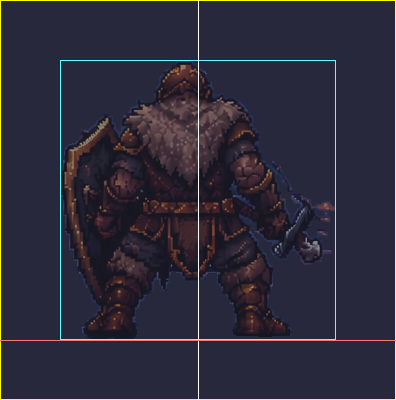
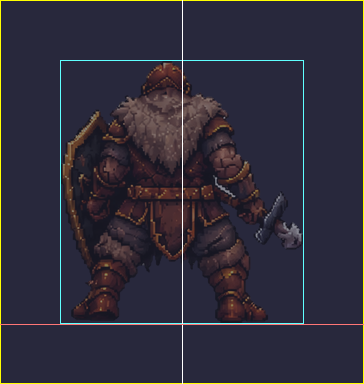
v39: novo cenário, personagens em camadas, Maga animada com efeitos da folha de referência
Claude-Session: https://claude.ai/code/session_01YFC38PcyDKAfPNhJ7r1cKG

Changed region(s): [[0.0, 0.125, 1.0, 0.875], [0.3324, 0.75, 0.3626, 0.7812]]

diff --git a/mage.js b/mage.js
@@ -1,0 +1,181 @@
+/* Banco de Dados I — RPG · rig da Maga (v39)
+   Usa a arte do spr_mage.webp deformada por linhas (respiração, balanço do manto, ponta do chapéu)
+   + efeitos azuis extraídos da folha de referência (fx/*.png), desenhados em camadas globais.
+   Só a Maga usa isso; os outros continuam como imagem/sheets. */
+(() => {
+'use strict';
+const FX_NAMES = ['rune','ring','proj','crystal','column','burst','flame','star','wisp','star2'];
+const FXK = {rune:2.4, ring:2.4, proj:2.4, crystal:2, column:2.2, burst:2.4, flame:2, star:1.5, wisp:1.8, star2:2};
+const T = {x:517, y:330};                       // ponto de impacto no chefe (coordenadas do design 1024x1536)
+const ORB = {x:193, y:47};                       // orbe do cajado dentro do sprite 209x284
+let _c = 0, _p = performance.now();
+const clk = () => { const n = performance.now(); _c += (n - _p) * (window.__ts == null ? 1 : window.__ts); _p = n; return _c; };
+const ease = u => u < .5 ? 2*u*u : 1 - Math.pow(-2*u + 2, 2) / 2, clamp = (v, a=0, b=1) => Math.max(a, Math.min(b, v));
+const lerp = (a, b, u) => a + (b - a) * u, rnd = (a, b) => a + Math.random() * (b - a);
+
+function kf(t, keys){                            // keyframes [[t,{k:v}]...] com suavização
+  if (t <= keys[0][0]) return keys[0][1];
+  for (let i = 1; i < keys.length; i++) if (t <= keys[i][0]) {
+    const [t0, a] = keys[i-1], [t1, b] = keys[i], u = ease((t - t0) / (t1 - t0)), o = {};
+    for (const k in {...a, ...b}) o[k] = lerp(a[k] || 0, b[k] || 0, u); return o;
+  }
+  return keys[keys.length-1][1];
+}
+
+// poses (deltas somados ao idle). lean>0 = inclina pra frente(direita), rise>0 = sobe, squash>0 = agacha
+const ANIMS = {
+  melee:{dur:900, keys:[[0,{}],[.18,{lean:-9,squash:.05,rise:-4}],[.34,{lean:14,rise:22,sx:.04}],[.5,{lean:5,rise:8}],[1,{}]],
+    ev:[[.3, m => { m.proj(.0, 330, 80, .55); m.pop('star', 0, 0, .3, 1.1, 260, 'T'); }], [.42, m => m.pop('star2', 0, 0, .4, 1.4, 360, 'T')]]},
+  cast:{dur:1500, keys:[[0,{}],[.25,{lean:-6,rise:6,glow:.6}],[.5,{lean:-12,rise:16,glow:1.2,tip:5}],[.62,{lean:10,rise:4,glow:1.6}],[1,{}]],
+    ev:[[.15, m => m.pop('rune', 0, 0, .25, 1.0, 900, 'feet', 'back', 1.4)], [.2, m => m.sparks(10)], [.62, m => m.proj(0, 520, 110, 1)], [.82, m => { m.pop('burst', 0, 0, .25, .75, 520, 'T'); m.pop('star', 0, 0, .3, 1.6, 360, 'T'); }]]},
+  holy:{dur:1500, keys:[[0,{}],[.3,{rise:12,glow:1,lean:-4}],[.6,{rise:16,glow:1.5}],[1,{}]],
+    ev:[[.1, m => m.pop('rune', 0, 0, .25, 1.2, 1100, 'feet', 'back', 1.6)], [.3, m => m.sparks(14)], [.45, m => m.pop('column', 0, 0, .6, .9, 900, 'self')]]},
+  heavy:{dur:2100, keys:[[0,{}],[.2,{lean:-8,rise:10,squash:.04,glow:.8}],[.45,{lean:-14,rise:26,glow:1.6,tip:8}],[.58,{lean:16,rise:6,glow:2}],[.7,{lean:8,rise:12}],[1,{}]],
+    ev:[[.1, m => m.pop('rune', 0, 0, .3, 1.3, 1500, 'feet', 'back', 1.9)], [.25, m => m.sparks(18)], [.57, m => m.proj(0, 480, 130, 1.5)],
+        [.77, m => { m.pop('column', 0, 0, .6, 1.0, 800, 'T'); m.pop('burst', 0, 0, .3, 1.1, 650, 'T'); m.pop('star2', 0, 0, .3, 2.2, 450, 'T'); }]]},
+  ult:{dur:3400, keys:[[0,{}],[.12,{lean:-6,squash:.06}],[.35,{rise:46,lean:-6,glow:2,tip:10,sx:.02}],[.6,{rise:56,lean:-2,glow:2.6,tip:12}],[.72,{rise:40,lean:18,glow:3}],[.85,{rise:20,lean:8}],[1,{}]],
+    ev:[[.05, m => m.pop('rune', 0, 0, .2, 1.9, 2700, 'feet', 'back', 2.8)], [.1, m => m.pop('ring', 0, 0, .2, 1.3, 2400, 'feet', 'back', 1.8, 1)],
+        [.2, m => m.sparks(26)], [.4, m => m.sparks(26)],
+        [.5, m => m.pop('burst', -120, 0, .3, .8, 1300, 'self')], [.54, m => m.pop('burst', 120, 0, .3, .8, 1300, 'self')],
+        [.7, m => m.proj(0, 600, 220, 2.4)],
+        [.84, m => { m.pop('column', -90, 0, .5, 1.1, 1200, 'T'); m.pop('column', 90, 0, .5, 1.1, 1200, 'T'); m.pop('column', 0, 0, .6, 1.4, 1200, 'T'); }],
+        [.86, m => { m.pop('burst', 0, 0, .4, 2.4, 1000, 'T'); m.pop('rune', 0, 0, .4, 2.2, 1100, 'T', 'front', 1.4, 1); m.flash(); }], [.9, m => m.pop('star2', 0, 0, .4, 3.4, 700, 'T')]]},
+  guard:{dur:1700, keys:[[0,{}],[.2,{squash:.1,lean:-5}],[.8,{squash:.1,lean:-5,glow:.8}],[1,{}]],
+    ev:[[.05, m => m.pop('ring', 0, -150, .3, 1.5, 1500, 'self', 'front', 0, 1)], [.1, m => m.pop('rune', 0, -150, .3, .9, 1400, 'self', 'front', 0, -1)]]},
+  dodge:{dur:800, keys:[[0,{}],[.25,{dx:-46,lean:-12,squash:.04}],[.65,{dx:-46,lean:-10}],[1,{}]], ghost:true,
+    ev:[[.1, m => m.pop('wisp', 0, 0, .5, 1.0, 600, 'self')]]},
+  hurt:{dur:650, keys:[[0,{}],[.12,{lean:-14,rise:-8,squash:.07,tint:1,dx:-8}],[.3,{lean:-8,tint:.7,dx:8}],[.5,{lean:-4,tint:.3,dx:-3}],[1,{}]],
+    ev:[[.04, m => m.pop('star2', 0, 20, .3, 1.1, 300, 'self')]]},
+  pass:{dur:1400, keys:[[0,{}],[.4,{squash:.07,lean:-5,tip:-8}],[.7,{squash:.07,lean:-5,tip:-8}],[1,{}]], ev:[[.3, m => m.pop('wisp', 40, -90, .5, 1.1, 1000, 'self')]]},
+  victory:{dur:2300, keys:[[0,{}],[.1,{squash:.07}],[.25,{rise:48,lean:-4,glow:1.2}],[.4,{squash:.05}],[.55,{rise:60,lean:4,glow:1.6,tip:8}],[.7,{squash:.04}],[.85,{rise:14,glow:1}],[1,{}]],
+    ev:[[.2, m => { m.sparks(22); m.pop('star2', -50, -60, .5, 1.2, 700, 'self'); }], [.5, m => { m.sparks(30); m.pop('burst', 0, 0, .4, .7, 900, 'self'); m.pop('star2', 50, -90, .5, 1.4, 800, 'self'); }]]},
+};
+ANIMS.super = ANIMS.heavy; ANIMS.aoe = ANIMS.heavy;
+// idles (aleatórios, além do balanço contínuo)
+const IDLES = [
+  {dur:2600, keys:[[0,{}],[.4,{tip:14,lean:3,rise:4}],[.7,{tip:-10,lean:-2}],[1,{}]]},                                         // ponta do chapéu balança
+  {dur:2400, keys:[[0,{}],[.35,{glow:1.8,rise:6}],[1,{}]], ev:[[.15, m => { m.sparks(9); m.pop('star', 0, 0, .5, 1.5, 900, 'orb'); }]]},      // orbe brilha
+  {dur:3000, keys:[[0,{}],[.3,{dx:-7,lean:-4,squash:.02}],[.7,{dx:5,lean:3}],[1,{}]], ev:[[.2, m => m.pop('wisp', -30, -110, .5, 1.0, 1300, 'self')]]}, // troca o peso
+  {dur:2800, keys:[[0,{}],[.5,{sx:.03,rise:7,glow:1.2}],[1,{}]], ev:[[.1, m => m.pop('ring', 0, 0, .2, .9, 2200, 'feet', 'back', 0, .6)]]},   // anel arcano no chão
+];
+
+function make(host){
+  const {c, cv, P, W, Hh, world, layers, shadow} = host;       // c: ctx do canvas da Maga; world: {x,y} do sprite no design
+  const img = host.still, back = layers.back, front = layers.front, bc = back.getContext('2d'), fc = front.getContext('2d');
+  const fx = {}; FX_NAMES.forEach(n => { const i = new Image(); i.src = 'fx/' + n + '.png'; fx[n] = i; });
+  let parts = [], cur = null, flashT = 0, dead = 0, deadTarget = 0, last = 0, t0 = clk(), running = false, dirty = false, busy = null;
+
+  const state = () => cur ? cur.pose : {};
+  function deform(tm, p){                                        // monta função de deformação por linha
+    const br = Math.sin(tm / 1100) * .5 + .5, sw = Math.sin(tm / 1700 + 1), sw2 = Math.sin(tm / 930);
+    const lean = (p.lean || 0) + sw * 1.2, rise = (p.rise || 0) + br * 2.2, squash = p.squash || 0, tip = (p.tip || 0) + Math.sin(tm / 1300 + 2) * 3.2 + Math.sin(tm / 520) * 1.2;
+    const sx = 1 + (p.sx || 0) + br * .012;
+    return y => {
+      const h = y / Hh, up = 1 - h;
+      const dx = (p.dx || 0) + lean * Math.pow(up, 1.7) + sw2 * 1.6 * h * h + sw * 1.4 * h * h * h
+               + (h < .2 ? tip * Math.pow(1 - h / .2, 2) : 0);
+      const dy = -rise * (.3 + .7 * up) + squash * 48 * Math.pow(up, .8);
+      return {dx, dy, s: sx + (h > .3 && h < .8 ? br * .01 : 0) + squash * .08 * (1 - Math.abs(h - .55) * 2)};
+    };
+  }
+  function orbPos(f){ const d = f(ORB.y); return {x: ORB.x + d.dx, y: ORB.y + d.dy}; }
+
+  function spawn(o){ parts.push({t0: clk(), ...o}); }
+  const api = {
+    flash(){ flashT = clk(); },
+    sparks(n){ for (let i = 0; i < n; i++) spawn({img:'star', at:'orb', ox:rnd(-14,14), oy:rnd(-14,14), vx:rnd(-30,30), vy:rnd(-90,-30), s0:rnd(.25,.6), s1:0, d:rnd(500,1100), layer:'front', w:rnd(0,.25)}); },
+    pop(name, ox, oy, s0, s1, d, at, layer = 'front', rot0 = 0, rot1 = 0){ spawn({img:name, at, ox, oy, s0, s1, d, layer, rot0, rot1, pop:true}); },
+    proj(ox, d, arc, size){ spawn({img:'proj', at:'orb', fly:true, d, arc, s0:.35 * size, s1:.55 * size, layer:'front', trail:true}); },
+  };
+
+  function pos(p, now){                                         // coordenadas do design (1024x1536) do efeito
+    const orb = host.orbWorld;
+    let base = p.at === 'T' ? T : p.at === 'orb' ? orb : p.at === 'feet' ? {x: world.x + W / 2, y: world.y + Hh - 12} : {x: world.x + W / 2, y: world.y + Hh / 2};
+    return {x: base.x + (p.ox || 0), y: base.y + (p.oy || 0)};
+  }
+  function drawPart(ctx, p, now){
+    const u = (now - p.t0 - (p.w || 0) * 1000) / p.d; if (u < 0) return true; if (u >= 1) return false;
+    const im = fx[p.img]; if (!im.complete || !im.naturalWidth) return true;
+    let {x, y} = pos(p, now), a, s = lerp(p.s0, p.s1, ease(u)) * (FXK[p.img] || 1), rot = lerp(p.rot0 || 0, p.rot1 || 0, u);
+    if (p.fly) {
+      const o = p.o0 || (p.o0 = {...host.orbWorld}), e = u * u * (3 - 2 * u * .6), e2 = Math.pow(u, 1.5);
+      x = lerp(o.x, T.x, e2); y = lerp(o.y, T.y, e2) - Math.sin(u * Math.PI) * p.arc; a = u > .93 ? (1 - u) / .07 : 1; rot = u * 9;
+      if (p.trail && Math.random() < .8) spawn({img:'star', at:'abs', ax:x, ay:y, s0:rnd(.2,.5), s1:0, d:rnd(250,520), layer:'front'});
+    } else if (p.vx != null) {
+      x += p.vx * u * 1; y += p.vy * u; a = Math.sin(u * Math.PI);
+    } else a = p.pop ? (u < .15 ? u / .15 : 1 - Math.pow((u - .15) / .85, 1.6)) : 1 - u;
+    if (p.at === 'abs') { x = p.ax; y = p.ay; a = 1 - u; }
+    const k = host.scale, w = im.naturalWidth * s, h = im.naturalHeight * s;
+    ctx.save(); ctx.globalAlpha = clamp(a) * (p.img === 'rune' || p.img === 'ring' ? .9 : 1); ctx.translate(x * k, y * k);
+    if (p.layer === 'back' && (p.img === 'rune' || p.img === 'ring')) ctx.scale(1, .34);
+    ctx.rotate(rot); ctx.globalCompositeOperation = 'lighter'; ctx.drawImage(im, -w / 2 * k, -h / 2 * k, w * k, h * k);
+    if (p.pop && s > 1) ctx.drawImage(im, -w / 2 * k, -h / 2 * k, w * k, h * k);       // brilho extra
+    ctx.restore(); return true;
+  }
+
+  function frame(){
+    if (!running) return;
+    requestAnimationFrame(frame); const now = clk();
+    if (document.hidden || now - last < 30) return; last = now;
+    const tm = now - t0;
+    let p = {}, pe = 0;
+    if (cur) {
+      pe = (now - cur.start) / cur.a.dur;
+      if (!cur.fired) cur.fired = 0;
+      const ev = cur.a.ev || [];
+      while (cur.fired < ev.length && pe >= ev[cur.fired][0]) ev[cur.fired++][1](api);
+      p = kf(clamp(pe), cur.a.keys);
+      if (pe >= 1) { const d = cur; cur = null; d.done(); }
+    }
+    // morte: afunda
+    dead += (deadTarget - dead) * .12;
+    const f0 = deform(tm, p), f = y => { const d = f0(y); return d; };
+    host.orbWorld = (() => { const q = orbPos(f0); return {x: world.x + q.x, y: world.y + q.y}; })();
+    // ---- corpo
+    c.clearRect(0, 0, cv.width, cv.height); shadow(c); c.imageSmoothingEnabled = false;
+    const cx = W / 2, fall = dead;
+    const ghost = cur && cur.a.ghost ? clamp(Math.sin(clamp(pe) * Math.PI) * .5) : 0;
+    const body = (alpha, offx) => {
+      c.globalAlpha = alpha;
+      for (let y = 0; y < Hh; y++) {
+        const d = f0(y), sy = fall * .55, ty = Hh - (Hh - y) * (1 - sy), dw = W * d.s;
+        c.drawImage(img, 0, y, W, 1, Math.round(P + cx + (0 - cx) * d.s + d.dx + offx), Math.round(P + ty + d.dy * (1 - fall)), Math.round(dw), 2);
+      }
+      c.globalAlpha = 1;
+    };
+    if (ghost) { body(.28 * ghost * 2, 38 * ghost * 2); body(.18 * ghost * 2, 76 * ghost * 2); }
+    body(1, 0);
+    if (p.tint) { c.save(); c.globalCompositeOperation = 'source-atop'; c.fillStyle = `rgba(255,50,40,${.55 * p.tint})`; c.fillRect(0, 0, cv.width, cv.height); c.restore(); }
+    // ---- brilho do orbe (dentro do canvas)
+    const g = clamp((p.glow || 0) * .5 + .35 + Math.sin(tm / 400) * .08, 0, 1.4), op = orbPos(f0);
+    const gx = P + op.x, gy = P + op.y - (p.rise || 0) * 0, r = 20 + (p.glow || 0) * 14;
+    if (!fall || fall < .5) {
+      c.save(); c.globalCompositeOperation = 'lighter';
+      const gr = c.createRadialGradient(gx, gy, 1, gx, gy, r); gr.addColorStop(0, `rgba(120,190,255,${.55 * g})`); gr.addColorStop(.5, `rgba(40,110,255,${.22 * g})`); gr.addColorStop(1, 'rgba(0,40,255,0)');
+      c.fillStyle = gr; c.fillRect(gx - r, gy - r, 2 * r, 2 * r);
+      const st = fx.star; if (st.complete && st.naturalWidth) { const s = (.55 + (p.glow || 0) * .35) * (.8 + .2 * Math.sin(tm / 260)); c.globalAlpha = clamp(.55 + (p.glow || 0) * .3); c.drawImage(st, gx - st.naturalWidth * s / 2, gy - st.naturalHeight * s / 2, st.naturalWidth * s, st.naturalHeight * s); }
+      c.restore();
+    }
+    // ---- efeitos globais
+    if (parts.length || dirty) {
+      bc.clearRect(0, 0, back.width, back.height); fc.clearRect(0, 0, front.width, front.height); dirty = parts.length > 0;
+      parts = parts.filter(q => drawPart(q.layer === 'back' ? bc : fc, q, now));
+      if (flashT) { const u = (now - flashT) / 450; if (u < 1) { fc.save(); fc.fillStyle = `rgba(150,200,255,${.55 * (1 - u)})`; fc.fillRect(0, 0, front.width, front.height); fc.restore(); dirty = true; } else flashT = 0; }
+    }
+  }
+  window.__dbg = () => ({n: parts.length, cur: cur && cur.fired, pe: cur && (clk() - cur.start) / cur.a.dur, run: running, dead, deadTarget, busy: !!cur});
+  return {
+    start(){ if (!running) { running = true; requestAnimationFrame(frame); } },
+    play(name){ const a = ANIMS[name]; if (!a || dead > .05 && name !== 'revive') return Promise.resolve(false);
+      if (cur) cur.done(false);
+      return new Promise(res => { cur = {a, start: clk(), done: ok => res(ok !== false), fired: 0, pose: {}}; }); },
+    idle(){ if (cur) return Promise.resolve(false); const a = IDLES[Math.floor(Math.random() * IDLES.length)];
+      return new Promise(res => { cur = {a, start: clk(), done: ok => res(ok !== false), fired: 0, pose: {}}; }); },
+    has: n => !!ANIMS[n],
+    setDead(d){ deadTarget = d ? 1 : 0; if (d) { if (cur) cur.done(false); cur = null; api.pop('wisp', 0, 0, .5, 1.2, 1200, 'self'); } else { api.flash(); api.sparks(24); api.pop('burst', 0, 0, .3, .8, 900, 'self'); } },
+    reset(){ if (cur) { const d = cur; cur = null; d.done(false); } parts = []; deadTarget = 0; dead = 0; dirty = true; },
+    busy: () => !!cur, dead: () => deadTarget > 0,
+  };
+}
+window.MageRig = {make};
+})();

diff --git a/anim.js b/anim.js
@@ -3,7 +3,7 @@
    Configuração em anim/manifest.json (veja ANIMACOES.md). API usada pelo app.js: Anim.play / setDead / setAura / reset (+ say/sfx vazios). */
 (() => {
 'use strict';
-const META = {"mage":{"x":19,"y":805,"w":237,"h":276},"knight":{"x":255,"y":811,"w":236,"h":286},"tank":{"x":515,"y":810,"w":276,"h":280},"assassin":{"x":747,"y":805,"w":247,"h":307},"boss":{"x":44,"y":95,"w":946,"h":601}};
+const META = {"mage":{"x":32,"y":806,"w":209,"h":284},"knight":{"x":268,"y":838,"w":210,"h":262},"tank":{"x":531,"y":834,"w":244,"h":264},"assassin":{"x":772,"y":830,"w":196,"h":282},"boss":{"x":93,"y":111,"w":848,"h":589}};
 const WHO = Object.keys(META);
 const FALLBACK = {heavy:['melee'], holy:['cast', 'melee'], cast:['melee'], super:['heavy', 'melee'], aoe:['attack'], enrage:['attack'], laugh:['idle'], die:['death', 'hurt']};
 const $ = s => document.querySelector(s), rnd = (a, b) => a + Math.random() * (b - a), pick = a => a[Math.floor(Math.random() * a.length)];
@@ -34,6 +34,7 @@ function build(){
     const still = new Image(); still.src = `spr_${w}.webp`;
     H[w] = {cv, c:cv.getContext('2d'), still, sheets:{}, cur:null, dead:false, idleT:null, token:0, hold:null};
     drawStill(w); still.onload = () => { if (!H[w].cur) drawStill(w); };
+    if (w === 'mage' && window.MageRig) buildMage(H[w], m, P);
   });
   fetch('anim/manifest.json', {cache:'no-cache'}).then(r => r.ok ? r.json() : null).catch(() => null).then(async cfg => {
     if (cfg) CFG = cfg;
@@ -41,9 +42,20 @@ function build(){
     for (const w of WHO) { H[w].sheets = await loadSheets(w); drawStill(w); scheduleIdle(w, rnd(800, 2500)); }
   });
 }
+function buildMage(h, m, P){
+  const mk = (cls) => { const k = document.createElement('canvas'); k.className = 'fxl ' + cls; k.width = 1024; k.height = 1536; return k; };
+  const back = mk('back'), front = mk('front'); $('#game').append(back, front);
+  h.rig = window.MageRig.make({c:h.c, cv:h.cv, P, W:m.w, Hh:m.h, world:{x:m.x, y:m.y}, layers:{back, front}, still:h.still, scale:1, shadow:c => shadow(c, 'mage'), orbWorld:{x:m.x + 190, y:m.y + 45}});
+  h.rig.start();
+}
 function drawStill(w){
-  const h = H[w]; if (!h || !h.still.complete || !h.still.naturalWidth) return; const P = pad();
-  h.c.clearRect(0, 0, h.cv.width, h.cv.height); if (w !== 'boss') h.c.drawImage(h.still, P, P);   // o boss já está no cenário
+  const h = H[w]; if (h && h.rig) return; if (!h || !h.still.complete || !h.still.naturalWidth) return; const P = pad();
+  h.c.clearRect(0, 0, h.cv.width, h.cv.height); shadow(h.c, w); h.c.drawImage(h.still, P, P);
+}
+function shadow(c, w){
+  const m = META[w], P = pad(), g = c.createRadialGradient(P + m.w / 2, P + m.h - 4, 2, P + m.w / 2, P + m.h - 4, m.w * .5);
+  g.addColorStop(0, 'rgba(0,0,10,.55)'); g.addColorStop(1, 'rgba(0,0,10,0)');
+  c.save(); c.translate(0, P + m.h - 4); c.scale(1, w === 'boss' ? .12 : .16); c.translate(0, -(P + m.h - 4)); c.fillStyle = g; c.fillRect(P - 20, P + m.h - 4 - m.w * .5, m.w + 40, m.w); c.restore();
 }
 function drawFrame(w, s, f){
   const h = H[w], cw = cellW(w), ch = cellH(w), cols = s.cols || s.frames, col = f % cols, row = Math.floor(f / cols);
@@ -71,6 +83,7 @@ function playSheet(w, s, {loop = false, hold = false} = {}){
 async function play(w, name, opts = {}){
   const h = H[w]; if (!h) return false;
   if (h.dead && name !== 'revive') return false;
+  if (h.rig) { const n = h.rig.has(name) ? name : h.rig.has('melee') && name !== 'idle' ? 'melee' : null; if (!n) return false; clearTimeout(h.idleT); h.cur = n; await h.rig.play(n); h.cur = null; scheduleIdle(w, rnd(1200, 3200)); return true; }
   const r = resolve(w, name); if (!r) return false;
   clearTimeout(h.idleT); h.cur = name;
   await playSheet(w, r.s);
@@ -79,20 +92,21 @@ async function play(w, name, opts = {}){
 function scheduleIdle(w, delay){
   const h = H[w]; if (!h) return; clearTimeout(h.idleT);
   h.idleT = setTimeout(async () => {
+    if (h.rig && !h.cur && !h.dead && !document.hidden) { h.cur = 'idle'; await h.rig.idle(); h.cur = null; return scheduleIdle(w, rnd(1500, 4200)); }
     if (h.cur || h.dead || document.hidden || !h.sheets.idle) return scheduleIdle(w, rnd(1500, 3500));
     h.cur = 'idle'; await playSheet(w, pick(h.sheets.idle)); h.cur = null; scheduleIdle(w, rnd(1500, 4000));
   }, delay);
 }
 function setDead(w, dead){
-  const h = H[w]; if (!h || h.dead === dead) return; h.dead = dead; h.cv.classList.toggle('dead', dead);
+  const h = H[w]; if (!h || h.dead === dead) return; h.dead = dead; if (h.rig) { h.cv.classList.toggle('dead', dead); h.rig.setDead(dead); h.token++; h.cur = null; if (!dead) scheduleIdle(w, 1500); return; } h.cv.classList.toggle('dead', dead);
   if (dead) { const r = resolve(w, 'death'); if (r) playSheet(w, r.s, {hold:true}); }
   else { h.token++; h.cur = null; const r = resolve(w, 'revive'); if (r) playSheet(w, r.s).then(() => scheduleIdle(w, 1500)); else { drawStill(w); scheduleIdle(w, 1500); } }
 }
 function setAura(w, kind){
   const h = H[w]; if (!h) return; ['red', 'blue', 'orange', 'gold'].forEach(c => h.cv.classList.toggle('aura-' + c, c === kind));
 }
-function reset(){ WHO.forEach(w => { const h = H[w]; if (!h) return; h.token++; h.cur = null; h.dead = false; h.cv.classList.remove('dead'); setAura(w, null); drawStill(w); scheduleIdle(w, 1000); }); }
+function reset(){ WHO.forEach(w => { const h = H[w]; if (!h) return; h.token++; h.cur = null; h.dead = false; h.cv.classList.remove('dead'); if (h.rig) h.rig.reset(); setAura(w, null); drawStill(w); scheduleIdle(w, 1000); }); }
 const none = () => {};
-window.Anim = {META, play, setDead, setAura, reset, build, say:none, sayRandom:none, sfx:none, useSheet:() => {}, has:(w, n) => !!(H[w] && resolve(w, n))};
+window.Anim = {META, play, setDead, setAura, reset, build, say:none, sayRandom:none, sfx:none, useSheet:() => {}, has:(w, n) => !!(H[w] && ((H[w].rig && H[w].rig.has(n)) || resolve(w, n)))};
 if (document.readyState === 'loading') document.addEventListener('DOMContentLoaded', () => setTimeout(build, 0)); else setTimeout(build, 0);
 })();

diff --git a/sw.js b/sw.js
@@ -1,5 +1,5 @@
-const CACHE='bd1-rpg-v38';
-const ASSETS=['./','./index.html','./game.html','./lobby.js','./lobby.css','./select_plate.webp','./char_mage.webp','./char_knight.webp','./char_tank.webp','./char_assassin.webp','./panel_mage.webp','./panel_knight.webp','./panel_tank.webp','./panel_assassin.webp','./style.css','./app.js','./anim.js','./anim/manifest.json','./spr_mage.webp','./spr_knight.webp','./spr_tank.webp','./spr_assassin.webp','./game_clean.png','./question_panel.png','./icon_attack.png','./icon_coin.png','./manifest.webmanifest','./potion_hp.png','./potion_mana.png'];
+const CACHE='bd1-rpg-v39';
+const ASSETS=['./','./index.html','./game.html','./lobby.js','./lobby.css','./select_plate.webp','./char_mage.webp','./char_knight.webp','./char_tank.webp','./char_assassin.webp','./panel_mage.webp','./panel_knight.webp','./panel_tank.webp','./panel_assassin.webp','./style.css','./app.js','./anim.js','./mage.js','./anim/manifest.json','./spr_mage.webp','./spr_knight.webp','./spr_tank.webp','./spr_assassin.webp','./spr_boss.webp','./fx/rune.png','./fx/ring.png','./fx/proj.png','./fx/crystal.png','./fx/column.png','./fx/burst.png','./fx/flame.png','./fx/star.png','./fx/wisp.png','./fx/star2.png','./game_clean.png','./question_panel.png','./icon_attack.png','./icon_coin.png','./manifest.webmanifest','./potion_hp.png','./potion_mana.png'];
 // Tudo em cache (abre instantâneo, até offline). Em segundo plano o SW confere a rede (requisição condicional, barata);
 // se algum arquivo mudou, atualiza o cache e avisa a página, que recarrega sozinha (menu) ou mostra o aviso (jogo).
 const keyOf=u=>{const x=new URL(u);return x.origin+x.pathname};

diff --git a/style.css b/style.css
@@ -184,3 +184,7 @@
 .hero.aura-blue{filter:drop-shadow(0 0 .8cqw #7a3cff) drop-shadow(0 0 1.6cqw #4d8dffaa)}
 .hero.aura-orange{filter:drop-shadow(0 0 .8cqw #ff9d3d) drop-shadow(0 0 1.6cqw #ff9d3daa)}
 .hero.aura-gold{filter:drop-shadow(0 0 .8cqw #ffe08a)}
+
+.fxl{position:absolute;left:0;top:0;width:100%;height:100%;pointer-events:none}
+.fxl.back{z-index:3}
+.fxl.front{z-index:27}

diff --git a/game.html b/game.html
@@ -85,6 +85,7 @@
   <div id="toast" role="status" aria-live="polite"></div>
 </div>
 <script src="lobby.js"></script>
+<script src="mage.js"></script>
 <script src="anim.js"></script>
 <script src="app.js"></script>
 </body>

diff --git a/tools/extrair_fx.py b/tools/extrair_fx.py
@@ -1,0 +1,22 @@
+# Extrai os efeitos azuis da folha da Maga (fundo branco -> alpha) para fx/*.png
+import numpy as np, sys
+from PIL import Image
+SRC = sys.argv[1]
+im = np.asarray(Image.open(SRC).convert('RGB')).astype(float)
+BOXES = {
+ 'rune':(1278,436,1392,544), 'ring':(1438,300,1512,382), 'proj':(1464,383,1516,440),
+ 'crystal':(1392,424,1422,524), 'column':(1326,540,1380,732), 'burst':(1418,556,1512,724),
+ 'flame':(1314,314,1356,382), 'star':(1362,322,1392,352), 'spark':(1224,372,1270,420),
+ 'wisp':(1368,368,1398,432), 'star2':(1420,376,1452,428),
+}
+for k,(x0,y0,x1,y1) in BOXES.items():
+    c = im[y0:y1, x0:x1]
+    m = c.min(2)
+    a = np.clip((250 - m)/ (250-120), 0, 1)           # branco -> 0, azul saturado -> 1
+    a = a**0.8
+    col = np.clip((c - 255*(1-a[...,None]))/np.maximum(a[...,None],.05), 0, 255)
+    out = np.dstack([col, a*255]).astype(np.uint8)
+    ys, xs = np.where(a > .04)
+    if not len(ys): print('vazio', k); continue
+    out = out[ys.min():ys.max()+1, xs.min():xs.max()+1]
+    Image.fromarray(out,'RGBA').save(f'fx/{k}.png'); print(k, out.shape[1], out.shape[0])

diff --git a/tools/montar_sheet.py b/tools/montar_sheet.py
@@ -4,7 +4,7 @@ Os quadros são ordenados pelo nome (ex.: maga_melee_01.png ... _06.png). Saída
 import sys, glob, json, os
 from PIL import Image
 pasta,heroi,anim=sys.argv[1:4]; fps=int(sys.argv[4]) if len(sys.argv)>4 else 12
-META={"mage":(237,276),"knight":(236,286),"tank":(276,280),"assassin":(247,307),"boss":(946,601)}
+META={"mage":(209,284),"knight":(210,262),"tank":(244,264),"assassin":(196,282),"boss":(848,589)}
 mw,mh=META[heroi]; cw,ch=mw+120,mh+120
 fr=sorted(glob.glob(os.path.join(pasta,'*.png')))
 if not fr: sys.exit('nenhum PNG em '+pasta)

diff --git a/tools/gerar_gabaritos.py b/tools/gerar_gabaritos.py
@@ -1,6 +1,6 @@
 """Gera gabaritos/<heroi>_gabarito.png (guias) e <heroi>_base.png (sprite atual na célula) para desenhar os quadros."""
 from PIL import Image, ImageDraw
-META={"mage":(237,276),"knight":(236,286),"tank":(276,280),"assassin":(247,307),"boss":(946,601)}
+META={"mage":(209,284),"knight":(210,262),"tank":(244,264),"assassin":(196,282),"boss":(848,589)}
 NOME={"mage":"maga","knight":"guerreiro","tank":"tanque","assassin":"cleriga","boss":"boss"}
 PAD=60
 import os; os.makedirs('gabaritos',exist_ok=True)

diff --git a/README.md b/README.md
@@ -168,3 +168,9 @@ Animações, falas e o rig da Maga/Clériga removidos a pedido: o jogo volta ao 
 
 ## v38 — tocador de sprite sheets
 Animações por código removidas de vez. `anim.js` toca sprite sheets desenhados (veja ANIMACOES.md, `gabaritos/`, `tools/`). Sem sheets, os heróis ficam parados (cenário sem heróis + sprites `spr_*.webp`).
+
+## v39 — novo cenário, personagens em camadas e Maga animada
+- Cenário novo (sala do trono) sem personagens no fundo; HUD e painel inferior nos mesmos pixels. Heróis e Lorde das Trevas são camadas separadas (`spr_*.webp`) com sombra no chão.
+- **Maga animada** (`mage.js`): corpo deformado por linhas (respiração, manto, ponta do chapéu, inclinação, salto) + efeitos azuis **extraídos da folha de referência** (`fx/*.png`, gerados por `tools/extrair_fx.py`): círculo rúnico, anel arcano, projétil, cristal, coluna, explosão, chama, estrelas, fios de energia.
+- Animações: 4 idles aleatórios, ataque, magia, sagrado, pesado, ultimate, defesa (anel), esquiva (rastro), dano, passar, vitória, morte/reviver.
+- Os outros personagens seguem estáticos (ou com sheets, como em v38).

diff --git a/ANIMACOES.md b/ANIMACOES.md
@@ -7,11 +7,11 @@ O jogo toca **quadros desenhados por você** (Aseprite, etc.). Sem sheet, o pers
 
 | Personagem | `<personagem>` / id no manifest | Célula (px) |
 |---|---|---|
-| Maga | `maga` / `mage` | 357 × 396 |
-| Guerreiro | `guerreiro` / `knight` | 356 × 406 |
-| Tanque | `tanque` / `tank` | 396 × 400 |
-| Clériga | `cleriga` / `assassin` | 367 × 427 |
-| Lorde das Trevas | `boss` / `boss` | 1066 × 721 |
+| Maga | `maga` / `mage` | 329 × 404 |
+| Guerreiro | `guerreiro` / `knight` | 330 × 382 |
+| Tanque | `tanque` / `tank` | 364 × 384 |
+| Clériga | `cleriga` / `assassin` | 316 × 402 |
+| Lorde das Trevas | `boss` / `boss` | 968 × 709 |
 
    - Amarelo = limite da célula · ciano = onde o sprite fica parado · vermelho = linha dos pés · branco = centro.
    - `<personagem>_base.png` é o sprite atual já na célula: use como quadro 1 e desenhe os demais por cima.
